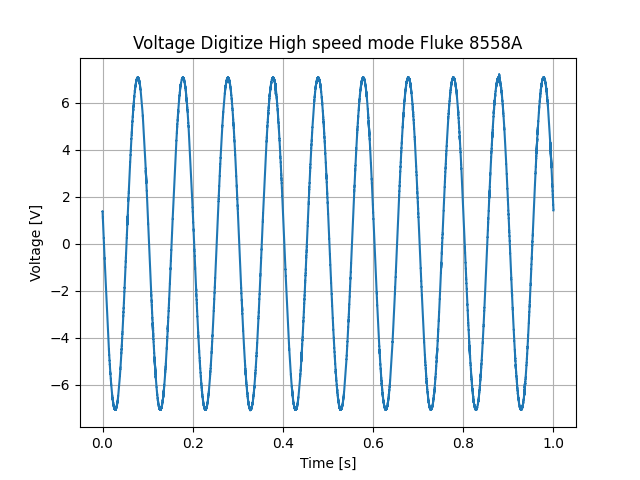
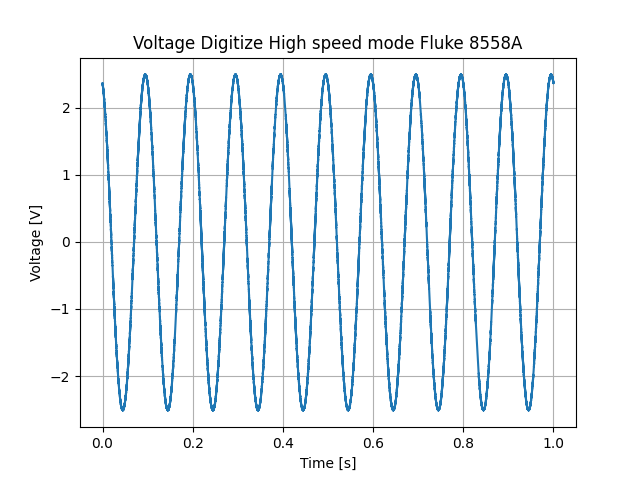
correct some errors in F8558A

diff --git a/examples/Fluke_8558-DMM/DIGV_High_speed_F8558.py b/examples/Fluke_8558-DMM/DIGV_High_speed_F8558.py
@@ -35,14 +35,14 @@ F8558.write("FORMat:DATA PACKed,4") #no query command
 #channel 
 F8558.write("ROUT:TERM FRON") #FROM or REAR
 F8558.write("ROUT:INP:GUAR OFF") # ON or OFF
-#Current
-F8558.write("SENS:FUNC \"DIG:CURR\"") 
-F8558.write("SENS:DIG:CURR:COUP DC")
-F8558.write("SENS:DIG:CURR:RANG 1")
+#Volt
+F8558.write("SENS:FUNC \"DIG:VOLT\"")
+F8558.write("SENS:DIG:VOLT:COUP:SIGN DC10M")
+F8558.write("SENS:DIG:VOLT:RANG 10")
 F8558.write("SENS:DIG:FILT 3MHZ")
 
-#Aperture time <Tsampling
-F8558.write("SENS:DIG:APER 7E-7") #7E-7
+#Aperture time
+F8558.write("SENS:DIG:APER 7E-7")
 
 #Arm setup
 F8558.write("ARM:LAY2:SOUR IMM")
@@ -50,7 +50,7 @@ F8558.write("ARM:LAY2:COUN 1") #count trigger 2
 F8558.write("ARM:LAY2:DEL:AUTO OFF")
 F8558.write("ARM:LAY2:DEL 0")
 F8558.write("ARM:LAY1:SOUR EXT")
-F8558.write("ARM:LAY1:COUN 1") #count trigger 1 Hasta 11
+F8558.write("ARM:LAY1:COUN 1") #count trigger 1
 F8558.write("ARM:LAY1:DEL:AUTO OFF")
 F8558.write("ARM:LAY1:DEL 0")
 
@@ -59,7 +59,7 @@ F8558.write("ARM:LAY1:DEL 0")
 # Max samples: 10e6 without timestamp
 
 #trigger
-F8558.write("TRIG:SOUR TIM") 
+F8558.write("TRIG:SOUR TIM")
 F8558.write("TRIG:TIM 1E-6") #frec sample in 
 F8558.write("TRIG:COUN 1E6")
 F8558.write("TRIG:DEL:AUTO OFF")
@@ -71,14 +71,12 @@ scale_f=float(F8558.query("FORMat:DATA:SCALE?"))
 print("Scale: ",scale_f)
 
 # Current source manually setup
-print("Configure the current source and press enter: ")
+print("Configure the voltage source and press enter: ")
 input()
 
-time.sleep(1) #Current channel settling time (to avoid undesired transients) 
-
 #Launch trigger
-F8558.write("INIT:CONT ON")
 start = time.time()
+F8558.write("INIT:CONT ON")
 #Read 
 data=F8558.query_binary_values("READ?",
                                 datatype="i",
@@ -87,8 +85,8 @@ data=F8558.query_binary_values("READ?",
 finish = time.time()
 
 l_data=len(data)
-print("Time READ command: ",finish-start)
-print("Data length: ",data.shape)
+print("\nTime READ command: ",finish-start)
+print("Data length: ",l_data)
 print("Data type: ", type(data))
 print("Data raw: ",data[:5])
 data=data*scale_f
@@ -104,12 +102,15 @@ t=np.linspace(0.0, l_data*ts, l_data, endpoint=False)
 #Plot data
 fig, ax = plt.subplots()
 ax.plot(t,data)
-ax.set(xlabel='Time [s]', ylabel='Current [A]',
-       title='Current Digitize High speed mode Fluke 8558A')
+ax.set(xlabel='Time [s]', ylabel='Voltage [V]',
+       title='Voltage Digitize High speed mode Fluke 8558A')
 ax.grid()
 fig.savefig(r"F8558\files\data.png")
 
 plt.show()
+
+#normal mode: 43.637638568878174 s
+#super fast mode 4.463783025741577 s
 
 """
 Output
@@ -121,12 +122,14 @@ DISP state:  0
 
 STATS:  0
 
-Scale:  2.1648416832e-09
-Configure the current source and press enter:
+Scale:  1.0124046414e-08
+Configure the voltage source and press enter: 
 
-Time READ command:  4.492736577987671
-Data length:  (1000000,)
+
+Time READ command:  4.42468786239624
+Data length:  1000000
 Data type:  <class 'numpy.ndarray'>
-Data raw:  [409346048 409702400 409493504 409354240 409272320]
-Data scaled:  [0.88616939 0.88694083 0.88648861 0.88618712 0.88600978]
+Data raw:  [233377792 233279488 233422848 233336832 233377792]
+Data scaled:  [2.3627276  2.36173236 2.36318375 2.36231292 2.3627276 ]
+
 """
